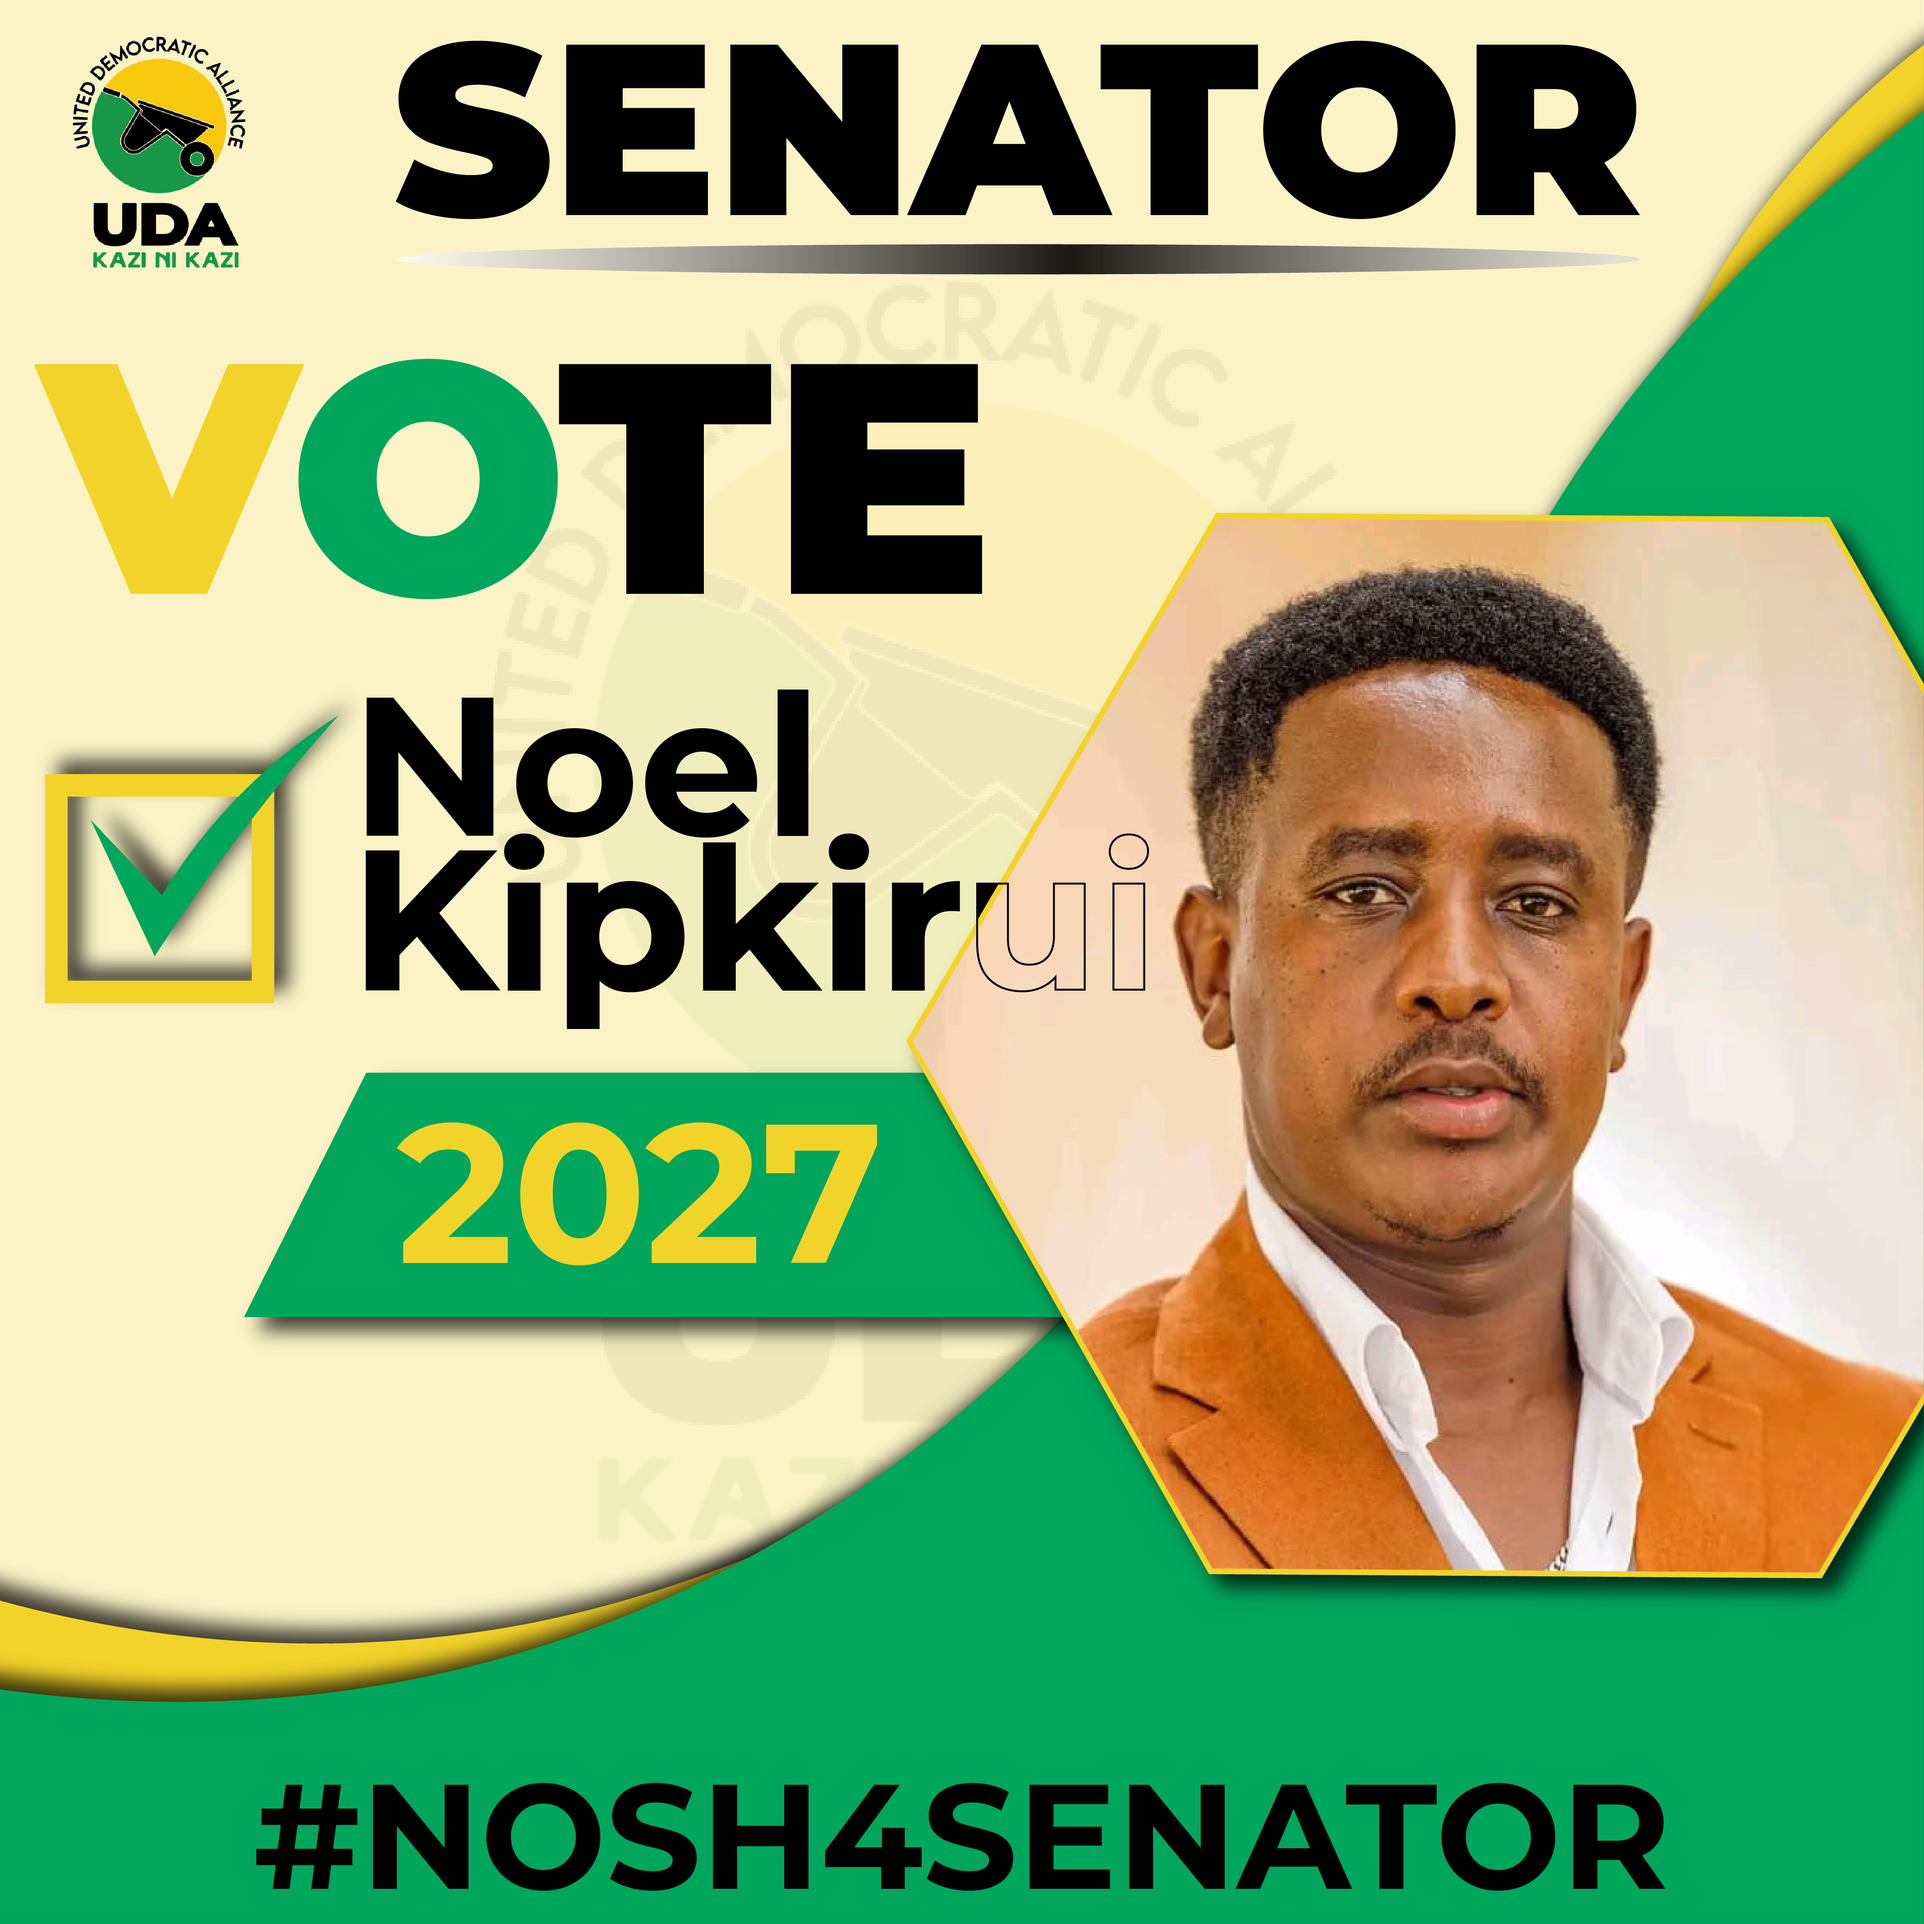
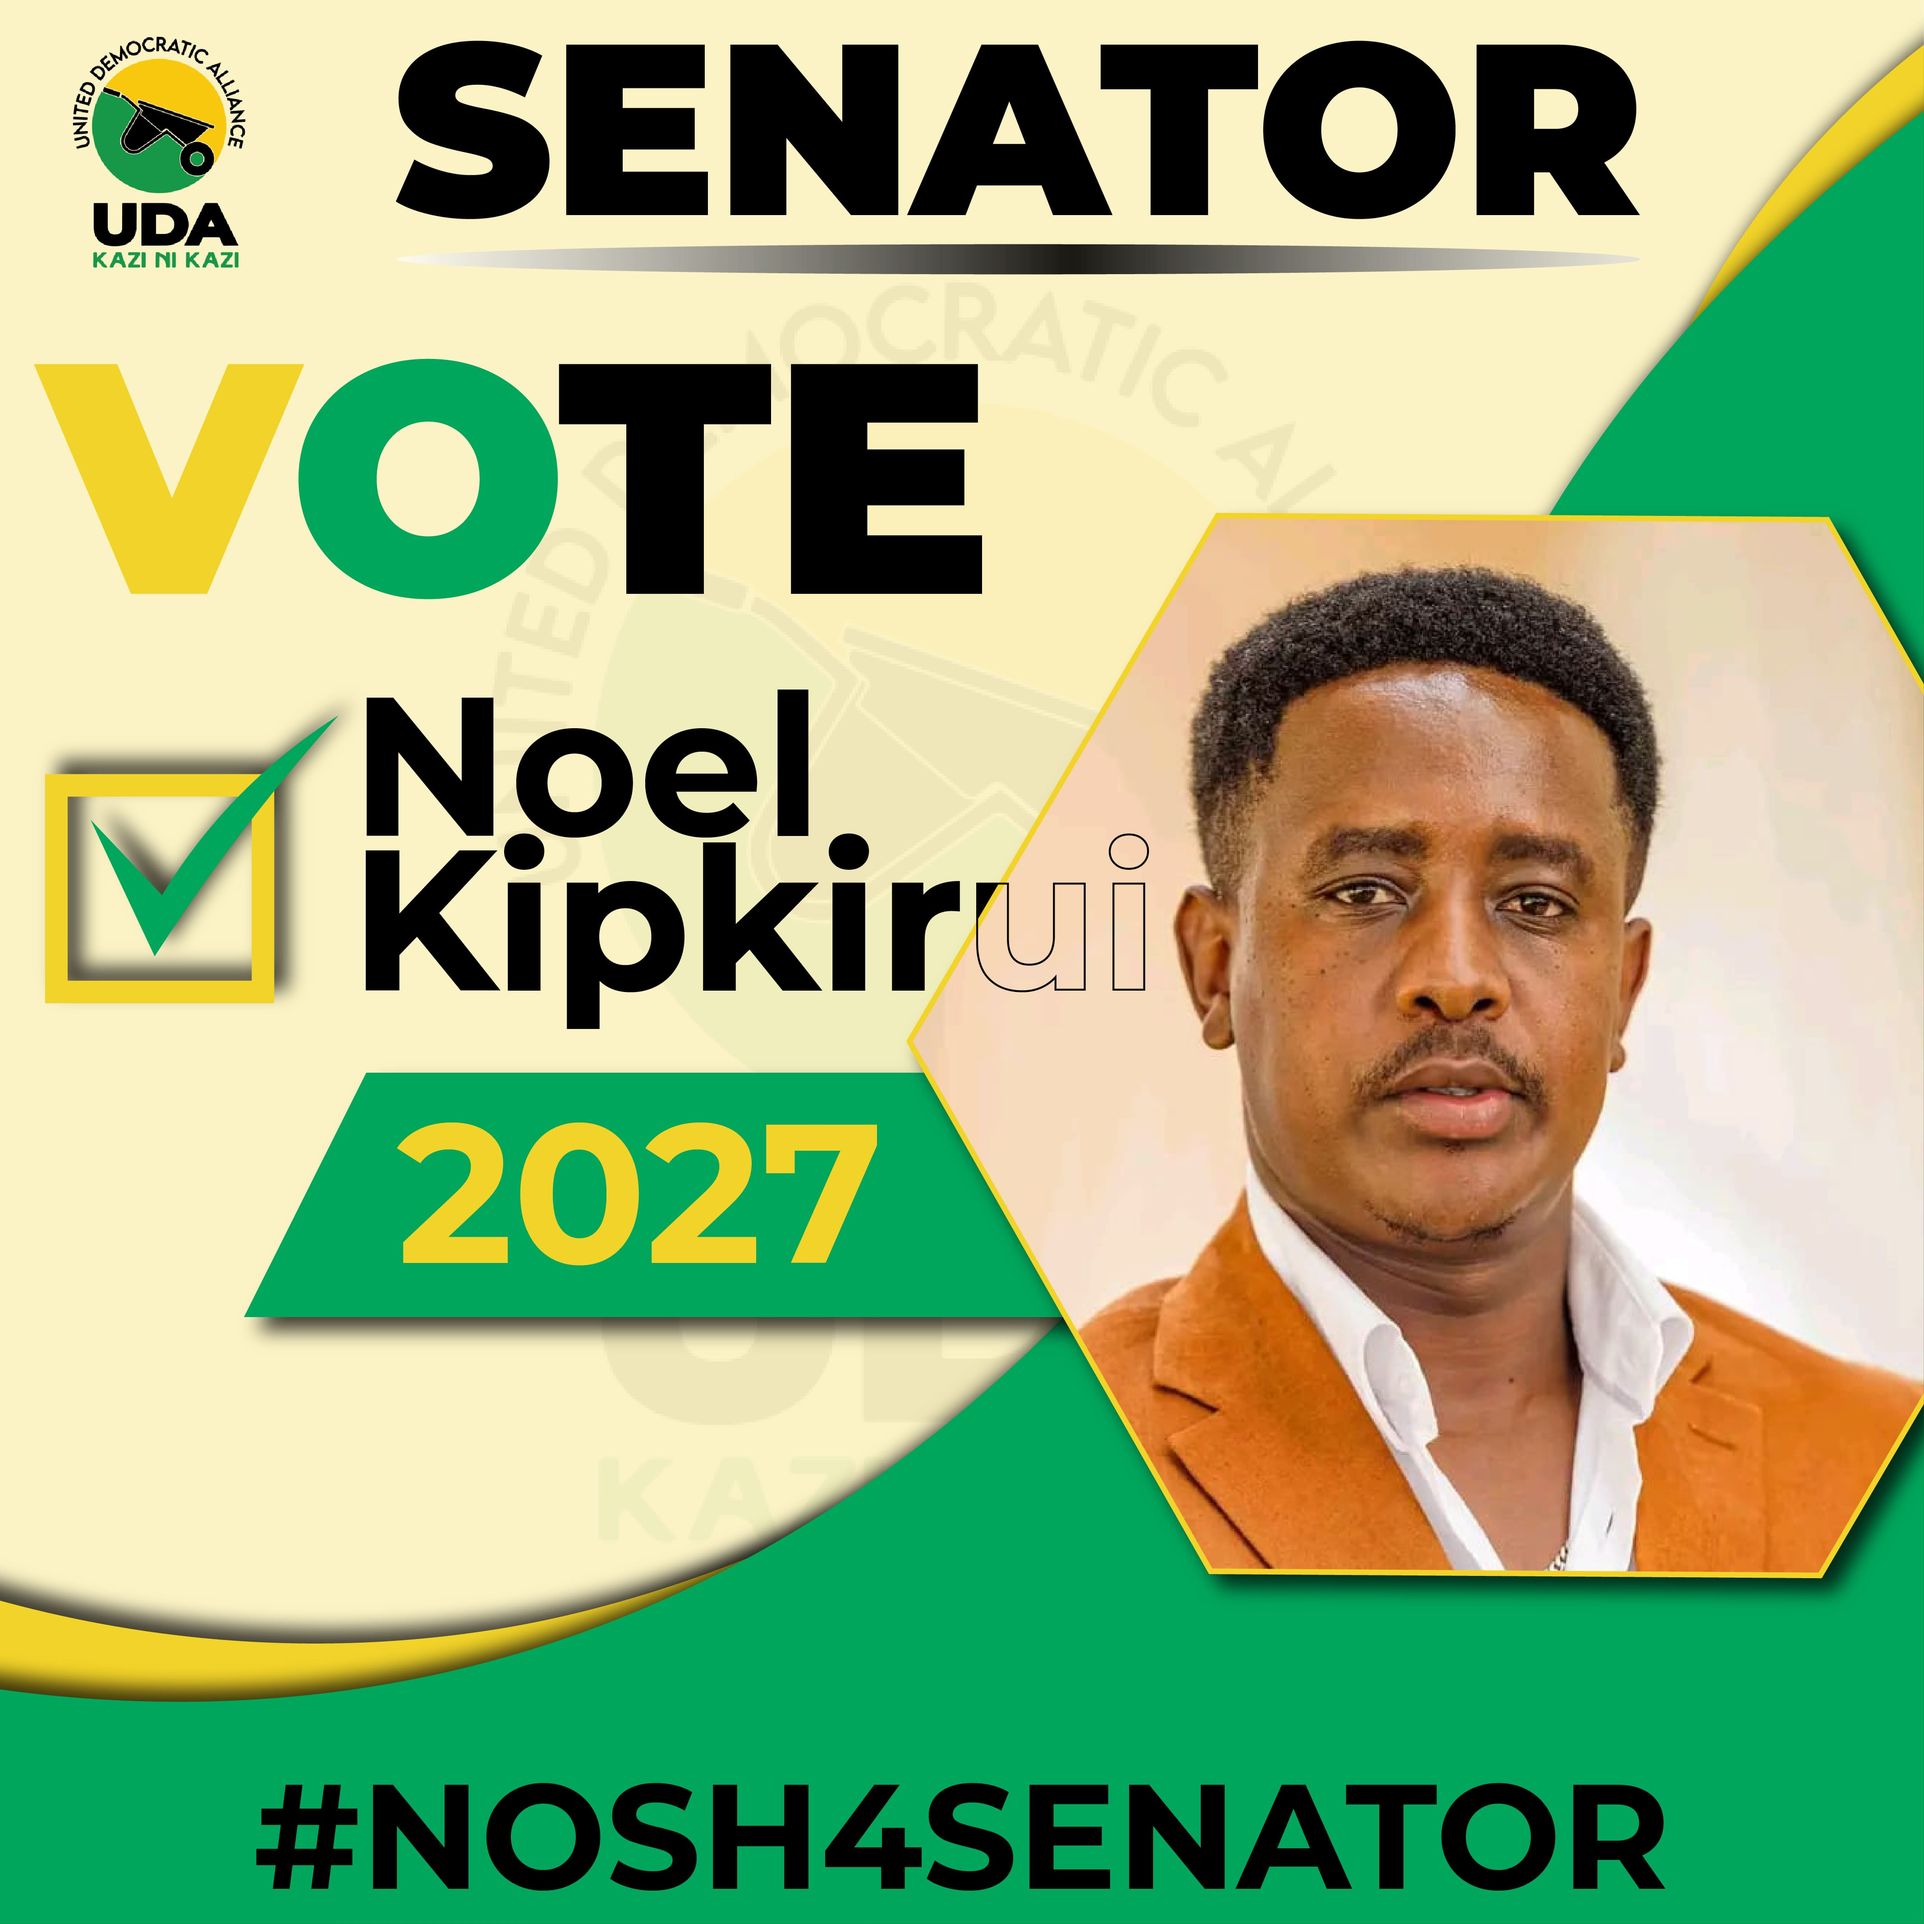
Replaced images with compressed versions and added lazy loading

diff --git a/index.html b/index.html
@@ -36,40 +36,40 @@
                 <div class="item">
                     <h3>Logo Designs</h3>
                     <div class="images">
-                        <img src="JPHIX LOGO 3-03-01.png" alt="Logo Design 1">
-                        <img src="KAMECHA NELEEL [Recovered]-01.jpg" alt="Logo Design 2">
-                        <img src="WhatsApp Image 2024-08-01 at 19.46.12_f11b0740.jpg" alt="Logo Design 3">
-                        <img src="Asset 2-8.png" alt="Logo Design 4">
-                        <img src="Asset 2.png" alt="Logo Design 5">
+                        <img src="JPHIX LOGO 3-03-01.png" loadin="lazy" alt="Logo Design 1">
+                        <img src="KAMECHA NELEEL [Recovered]-01.jpg" loadin="lazy" alt="Logo Design 2">
+                        <img src="WhatsApp Image 2024-08-01 at 19.46.12_f11b0740.jpg" loadin="lazy" alt="Logo Design 3">
+                        <img src="Asset 2-8.png" loadin="lazy" alt="Logo Design 4">
+                        <img src="Asset 2.png" loadin="lazy" alt="Logo Design 5">
                     </div>
                 </div>
                 <div class="item">
                     <h3>Mockups</h3>
                     <div class="images">
-                        <img src="12.jpg" alt="Mockup 1">
-                        <img src="black-urban-advertising-panel.jpg" alt="Mockup 2">
-                        <img src="blank-round-sign-board-building2.jpg" alt="Mockup 3">
-                        <img src="images-(3).jpeg.jpg" alt="Mockup 4">
-                        <img src="WhatsApp-Image-2024-08-01-at-.jpg" alt="Mockup 5">
-                        <img src="WhatsApp-Image-2024-07-29-at-19.32.15_be03fd4d.jpg" alt="Mockup 6">
+                        <img src="12.jpg" loadin="lazy" alt="Mockup 1">
+                        <img src="black-urban-advertising-panel.jpg" loadin="lazy" alt="Mockup 2">
+                        <img src="blank-round-sign-board-building2.jpg" loadin="lazy" alt="Mockup 3">
+                        <img src="images-(3).jpeg.jpg" loadin="lazy" alt="Mockup 4">
+                        <img src="WhatsApp-Image-2024-08-01-at-.jpg" loadin="lazy" alt="Mockup 5">
+                        <img src="WhatsApp-Image-2024-07-29-at-19.32.15_be03fd4d.jpg" loadin="lazy" alt="Mockup 6">
                     </div>
                 </div>
                 <div class="item">
                     <h3>Posters</h3>
                     <div class="images">
-                        <img src="Citizen-poster.jpg" alt="poster 1">
-                        <img src="Poster-01.jpg" alt="poster 2">
-                        <img src="Poster-02.jpg" alt="poster 3">
-                        <img src="Poster-03.jpg" alt="poster 4">
-                        <img src="Posters-03.jpg" alt="poster 5">
-                        <img src="Prac-01.jpg" alt="poster 6">
-                        <img src="NOSH-01.jpg" alt="poster 7">
-                        <img src="Chepkorrr-01.jpg" alt="poster 8">
-                        <img src="ChatGPT Image Jun 4, 2025, 10_58_30 AM.png" alt="poster 9">
-                        <img src="Madaraka-01.jpg" alt="poster 10">
-                        <img src="Cheserek-01.jpg" alt="poster 11">
-                        <img src="Trans-nzoia4-01.jpg" alt="poster 12">
-                        <img src="MCA KELVIN TANUI-01.jpg" alt="poster 13">
+                        <img src="Citizen-poster.jpg" loadin="lazy" alt="poster 1">
+                        <img src="Poster-01.jpg" loadin="lazy" alt="poster 2">
+                        <img src="Poster-02.jpg" loadin="lazy" alt="poster 3">
+                        <img src="Poster-03.jpg" loadin="lazy" alt="poster 4">
+                        <img src="Posters-03.jpg" loadin="lazy" alt="poster 5">
+                        <img src="Prac-01.jpg" loadin="lazy" alt="poster 6">
+                        <img src="NOSH-01.jpg" loadin="lazy" alt="poster 7">
+                        <img src="Chepkorrr-01.jpg" loadin="lazy" alt="poster 8">
+                        <img src="ChatGPT Image Jun 4, 2025, 10_58_30 AM.png" loadin="lazy" alt="poster 9">
+                        <img src="Madaraka-01.jpg" loadin="lazy" alt="poster 10">
+                        <img src="Cheserek-01.jpg" loadin="lazy" alt="poster 11">
+                        <img src="Trans-nzoia4-01.jpg" loadin="lazy" alt="poster 12">
+                        <img src="MCA KELVIN TANUI-01.jpg" loadin="lazy" alt="poster 13">
                     </div>
                 </div>
                 <!-- <div class="item">
@@ -85,24 +85,24 @@
                 <div class="item">
                     <h3>Flyers</h3>
                     <div class="images">
-                        <img src="Collo.jpg" alt="Flyer 1">
-                        <img src="DIOCESE RALLY-01.jpg" alt="Flyer 2">
-                        <img src="Free-Education-Summit-.png" alt="Flyer 3">
-                        <img src="Karura-Forest.jpg" alt="Flyer 4">
-                        <img src="Poster-Children's-home.jpg" alt="Flyer 5">
-                        <img src="poster-PS.jpg" alt="Flyer 6">
-                        <img src="RALLY003-01.jpg" alt="Flyer 7">
-                        <img src="INITIATIVE1 [Recovered]-01.jpg" alt="Flyer 8">
+                        <img src="Collo.jpg" loadin="lazy" alt="Flyer 1">
+                        <img src="DIOCESE RALLY-01.jpg" loadin="lazy" alt="Flyer 2">
+                        <img src="Free-Education-Summit-.png" loadin="lazy" alt="Flyer 3">
+                        <img src="Karura-Forest.jpg" loadin="lazy" alt="Flyer 4">
+                        <img src="Poster-Children's-home.jpg" loadin="lazy" alt="Flyer 5">
+                        <img src="poster-PS.jpg" loadin="lazy" alt="Flyer 6">
+                        <img src="RALLY003-01.jpg" loadin="lazy" alt="Flyer 7">
+                        <img src="INITIATIVE1 [Recovered]-01.jpg" loadin="lazy" alt="Flyer 8">
                     </div>
                 </div>
                 <div class="item">
                     <h3>Birthday Cards</h3>
                     <div class="images">
-                        <img src="Winnie Birthday-01.jpg" alt="Birthday card 1">
-                        <img src="Sandy BD-01.jpg" alt="Flyer 2">
-                        <img src="Kevo BD 1-01.jpg" alt="Flyer 3">
-                        <img src="flyer4.jpg" alt="Flyer 4">
-                        <img src="flyer5.jpg" alt="Flyer 5">
+                        <img src="Winnie Birthday-01.jpg" loadin="lazy" alt="Birthday card 1">
+                        <img src="Sandy BD-01.jpg" loadin="lazy" alt="Flyer 2">
+                        <img src="Kevo BD 1-01.jpg" loadin="lazy" alt="Flyer 3">
+                        <img src="flyer4.jpg" loadin="lazy" alt="Flyer 4">
+                        <img src="flyer5.jpg" loadin="lazy" alt="Flyer 5">
                     </div>
                 </div>
                
@@ -119,11 +119,11 @@
                 <div class="item">
                     <h3>Service & Business-cards</h3>
                     <div class="images">
-                        <img src="Service card.jpg" alt="Service Card 1">
-                        <img src="Justine-01.jpg" alt="Service card 2">
-                        <img src="flyer3.jpg" alt="Flyer 3">
-                        <img src="flyer4.jpg" alt="Flyer 4">
-                        <img src="flyer5.jpg" alt="Flyer 5">
+                        <img src="Service card.jpg" loadin="lazy" alt="Service Card 1">
+                        <img src="Justine-01.jpg" loadin="lazy" alt="Service card 2">
+                        <img src="flyer3.jpg" loadin="lazy" alt="Flyer 3">
+                        <img src="flyer4.jpg" loadin="lazy" alt="Flyer 4">
+                        <img src="flyer5.jpg" loadin="lazy" alt="Flyer 5">
                     </div>
                 </div>
                 
